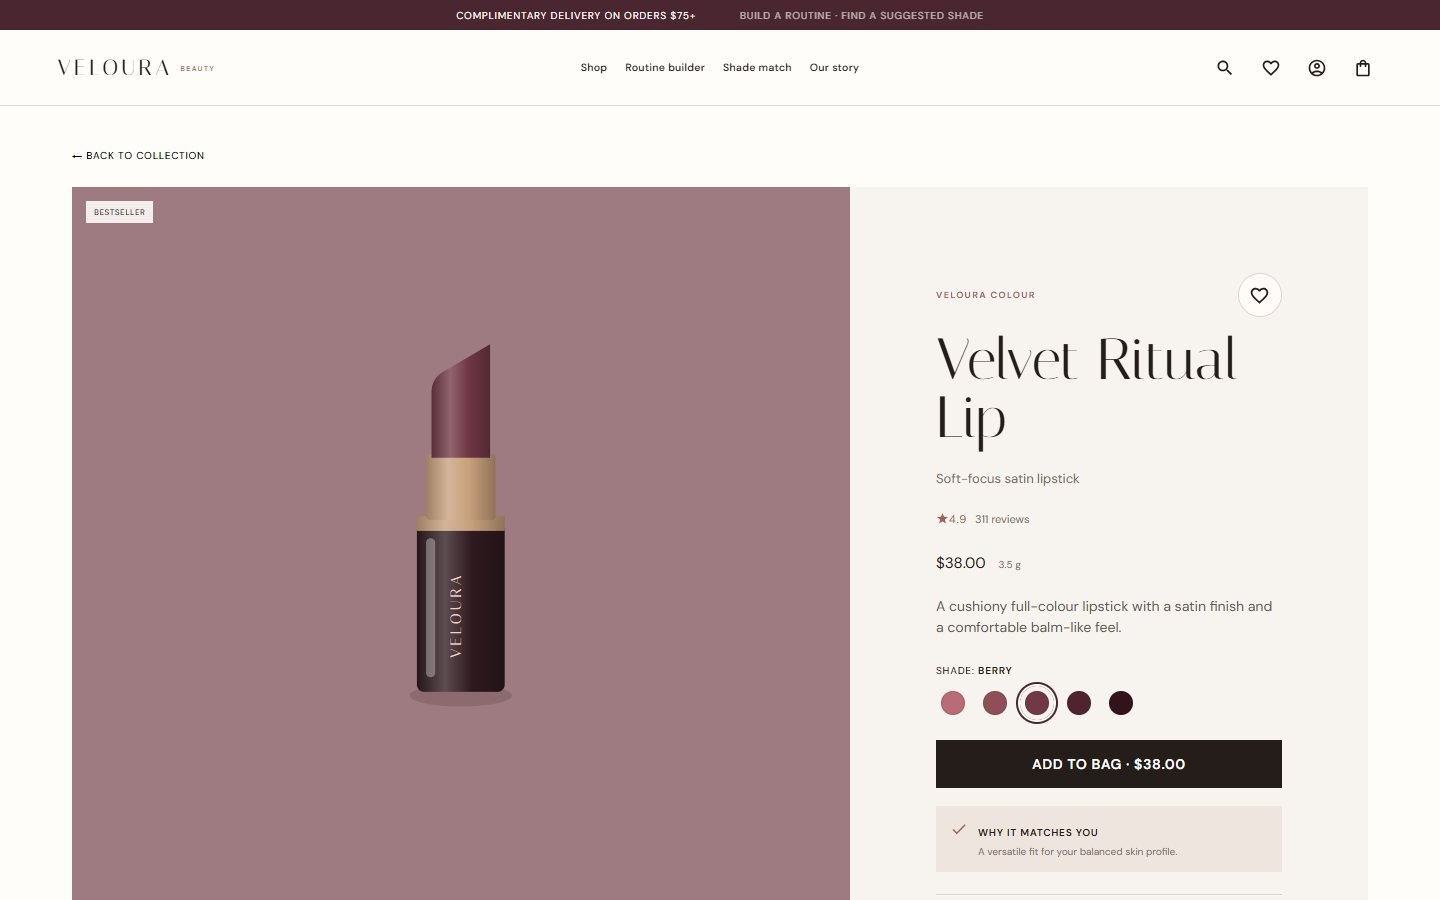
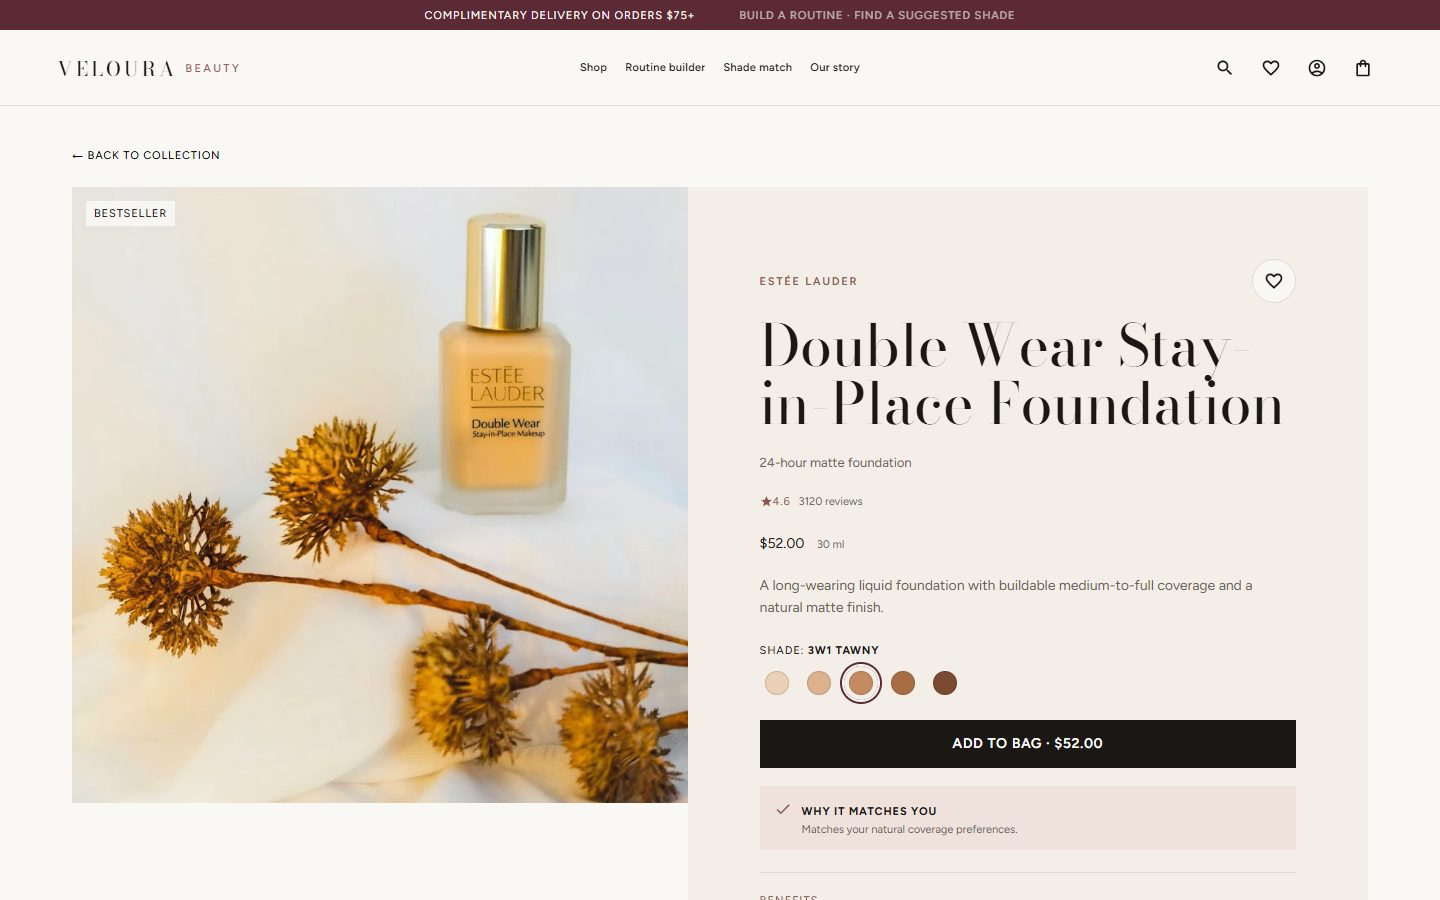
docs: describe the multi-brand store and refresh the screenshots
The README explains that Veloura is a fictional multi-brand store with
illustrative prices and Unsplash photography, updates the catalogue and
shade-match features, and points the roadmap at the shop and product
pages.

diff --git a/README.md b/README.md
@@ -1,13 +1,15 @@
 # Veloura Beauty
 
-A beauty e-commerce storefront for a fictional brand, built with React. It covers the full shopping
-journey (catalogue, product variants, bag, checkout) plus two guided tools: a routine builder
-and a foundation shade finder.
+A multi-brand beauty storefront, in the spirit of Sephora, built with Next.js and TypeScript. It
+covers the full shopping journey (catalogue, shades, bag, checkout) plus two guided tools: a
+skincare routine builder and a foundation shade finder.
 
 **Live demo:** https://veloura-beauty-store.vercel.app
 
-> Veloura is not a real company. No real orders or payments are processed; checkout runs in demo
-> mode and everything a shopper saves stays in their own browser.
+> Veloura is a fictional store and is not affiliated with any of the brands it shows. Prices,
+> ratings and stock are illustrative. No real orders or payments are processed; checkout runs in
+> demo mode and everything a shopper saves stays in their own browser. All photographs come from
+> [Unsplash](https://unsplash.com/license); each one is credited in `src/data/photoCredits.ts`.
 
 ![Homepage](docs/screenshots/home.jpg)
 
@@ -19,17 +21,18 @@ and a foundation shade finder.
 
 ## Features
 
-- **Catalogue**: 18 products across skincare, makeup and sets, with search, concern and price
+- **Catalogue**: 36 products from 17 brands (Chanel, Dior, Estée Lauder, NARS, The Ordinary,
+  Glossier, Olaplex…) across makeup, skincare, fragrance and hair, with search, concern and price
   filters, and sorting. Filters live in the URL, so a filtered view can be shared or refreshed.
-- **Shade variants**: lipsticks, tints, concealers and blushes have selectable shades with their own
-  stock; the product illustration and the bag line follow the chosen shade.
+- **Shade variants**: foundation, concealer and lipstick have selectable shades with their own
+  price and stock; the bag line follows the chosen shade.
 - **Bag and checkout**: quantity limits from stock, a promo code (`VELOURA10`), a
   free-delivery threshold, a three-step checkout with browser validation, and an order
   confirmation page that survives a reload.
 - **Routine builder**: three questions (concern, texture, time) produce a 2-, 3- or 4-step routine;
   each step can be swapped for an alternative and the whole routine added to the bag.
-- **Shade match**: depth and undertone questions suggest a Petal Skin Tint shade, which can be
-  saved to the beauty profile.
+- **Shade match**: depth and undertone questions suggest an Estée Lauder Double Wear shade, which
+  can be saved to the beauty profile.
 - **Beauty profile and wishlist**, persisted in `localStorage`.
 - **Accessibility**: keyboard-operable dialogs with focus trapping and focus return, labelled
   controls, a skip link, and reduced-motion support.
@@ -48,8 +51,8 @@ src/
 │   └── checkout/        Checkout and order confirmation, without store navigation
 ├── components/
 │   ├── layout/          Header, footer, search
-│   └── product-art/     SVG product illustrations and still-life scenes
-├── data/                Product catalogue, merchandising and scene art direction
+│   └── product-art/     Product photographs, with an SVG fallback
+├── data/                Catalogue (one file per category), merchandising and photo credits
 ├── domain/              Framework-free business rules (cart, pricing, selection, wishlist)
 ├── features/            One folder per journey: products, cart, checkout, routine, shade-match…
 ├── hooks/               Commerce and customer state, persistence, modal behaviour
@@ -73,10 +76,11 @@ Some decisions worth calling out:
   `src/domain` with their own unit tests, so components stay thin and the rules can move to a
   server later without rewriting the UI. Prices are calculated in whole cents to avoid
   floating-point drift.
-- **Product art is generated from data.** Instead of a photo per product and per shade, each
-  product declares its packaging type and colours, and `ProductArt` draws it as SVG. A new shade
-  is one line of data. Campaign images on the homepage and About page are composed the same way
-  (`ProductScene` + `src/data/scenes.ts`).
+- **Photography by convention, with an SVG fallback.** Each product has a photograph at
+  `public/images/products/<slug>.webp`, attached to the catalogue in `src/data/productImages.ts`.
+  Tests fail if a photograph or its credit is missing. `ProductVisual` serves it through
+  `next/image` with a `sizes` hint per placement; a product without a photograph is drawn as SVG
+  by `ProductArt` from its packaging type and colours.
 - **State that should be shareable is in the URL** (shop filters, selected shade, order
   confirmation); state that belongs to the shopper is in `localStorage` behind
   `storageRepository`.
@@ -117,8 +121,8 @@ production build on every push and pull request.
 
 ## Roadmap
 
-- Design system (Phase 4): turn the existing colours, type, spacing and motion into documented
-  tokens and shared primitives.
+- Shop and product pages: a denser shop grid, a product gallery and a sticky purchase panel in
+  the new visual style, followed by the bag, checkout and profile.
 
 The full plan is in [`docs/refactor-roadmap.md`](docs/refactor-roadmap.md).
 
